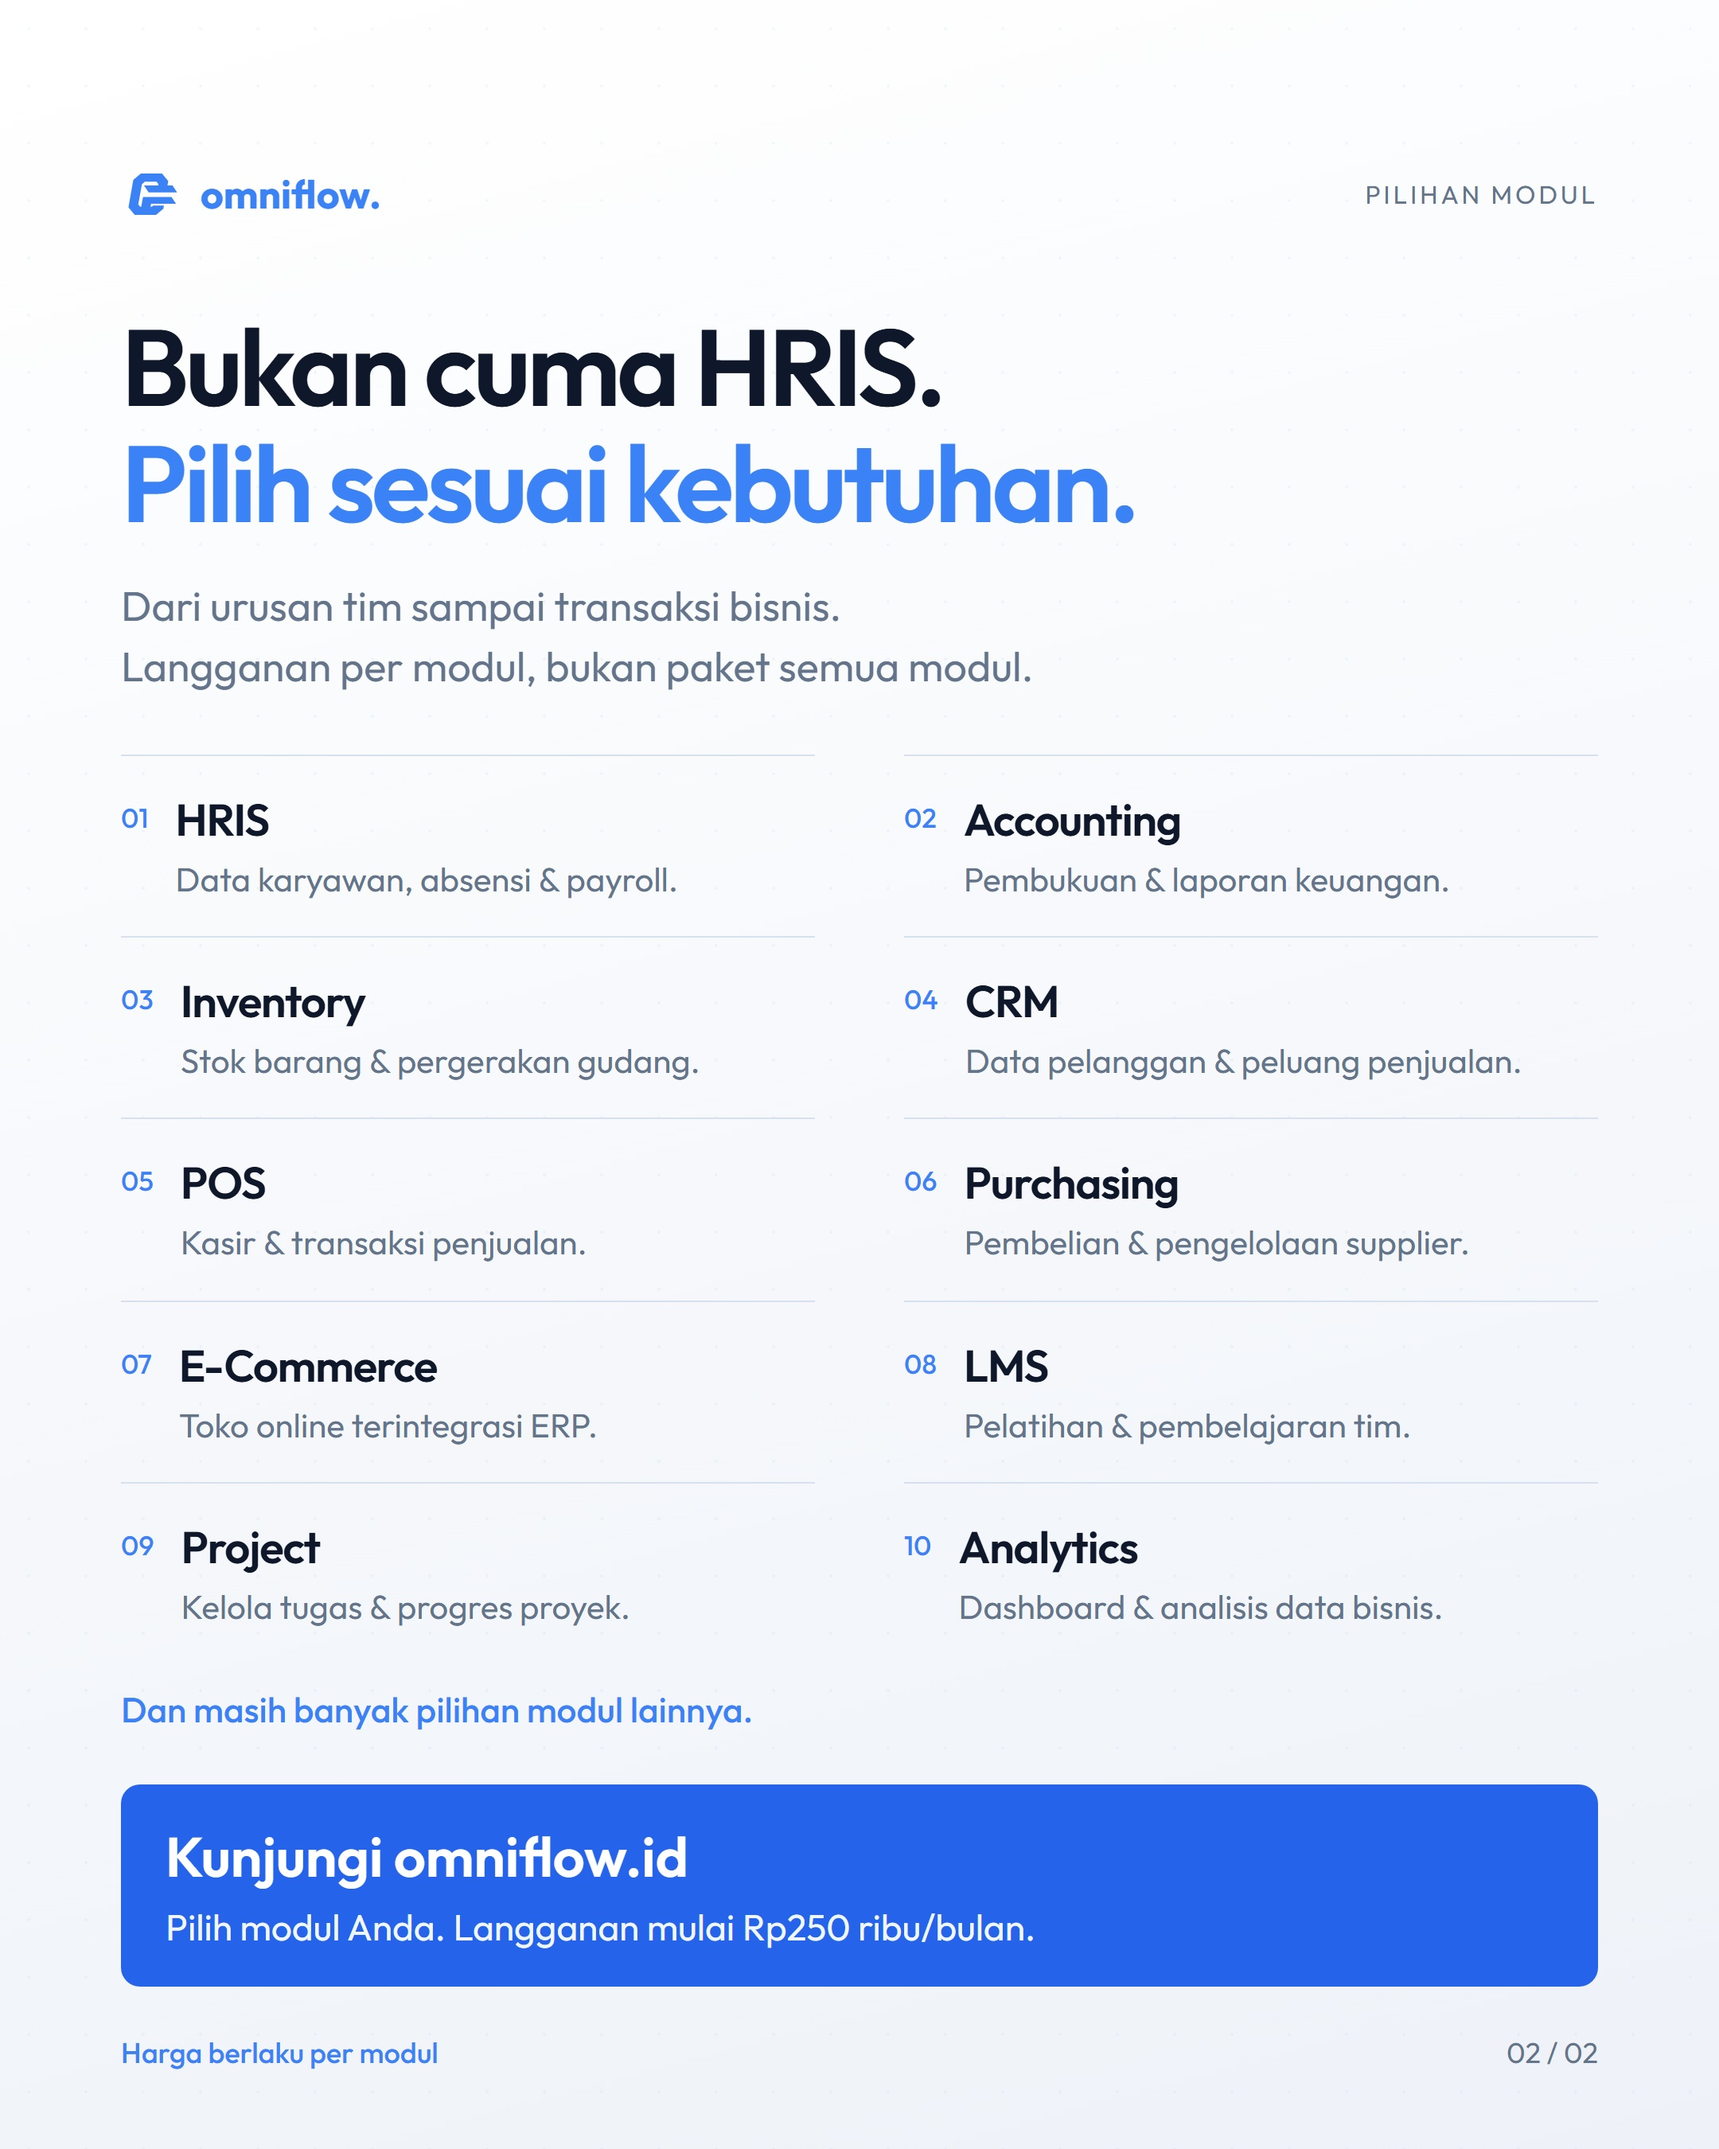
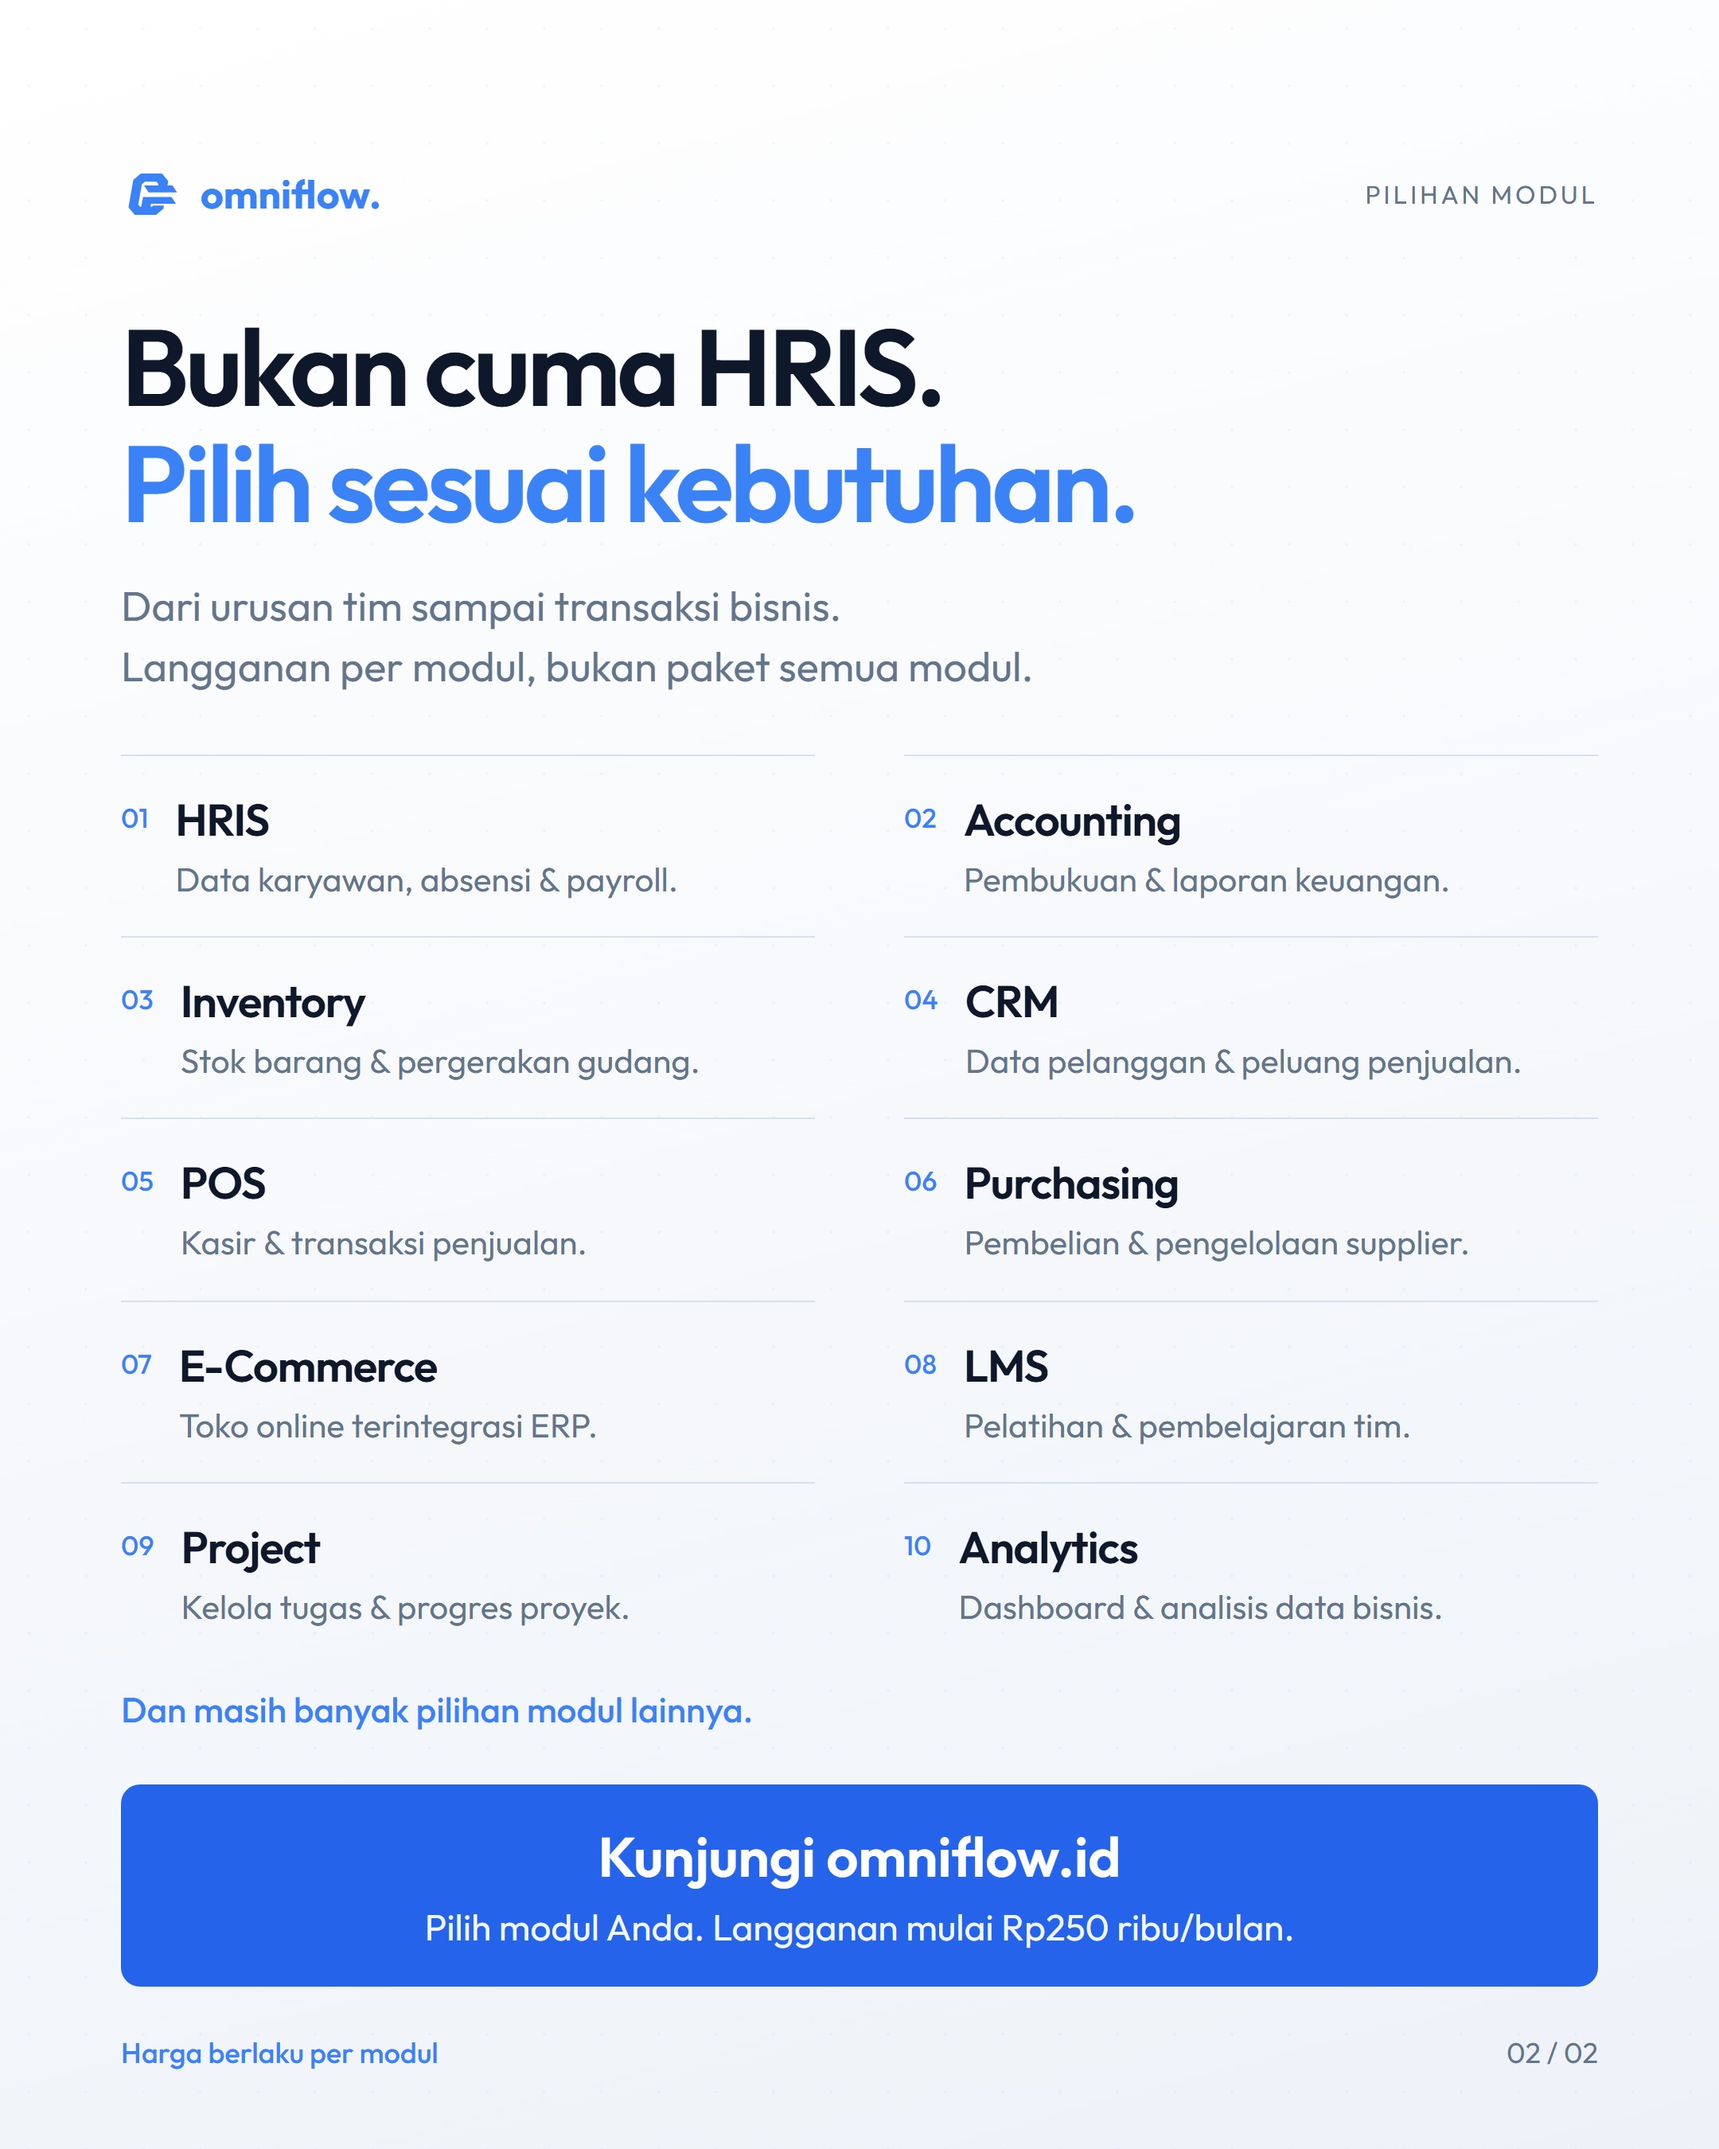
centered

Changed region(s): [[0.0931, 0.84, 0.7444, 0.9022]]

diff --git a/omniflow/ig-turun-harga/slide_02.html b/omniflow/ig-turun-harga/slide_02.html
@@ -24,7 +24,7 @@
     h2 { font-size: 28px; font-weight: 600; letter-spacing: -.02em; }
     .module p { margin-top: 6px; font-size: 21px; line-height: 1.35; color: #64748b; }
     .more { color: #3b82f6; font-size: 22px; margin-top: 15px; font-weight: 500; }
-    .cta { margin-top: 33px; background: #2563eb; border-radius: 12px; padding: 23px 28px; color: #fff; }
+    .cta { margin-top: 33px; background: #2563eb; border-radius: 12px; padding: 23px 28px; color: #fff; text-align: center; }
     .cta strong { display: block; font-size: 35px; font-weight: 600; }
     .cta p { margin-top: 8px; font-size: 23px; color: #eff6ff; }
     footer { position: absolute; bottom: 49px; left: 76px; right: 76px; display: flex; justify-content: space-between; font-size: 18px; color: #64748b; }
